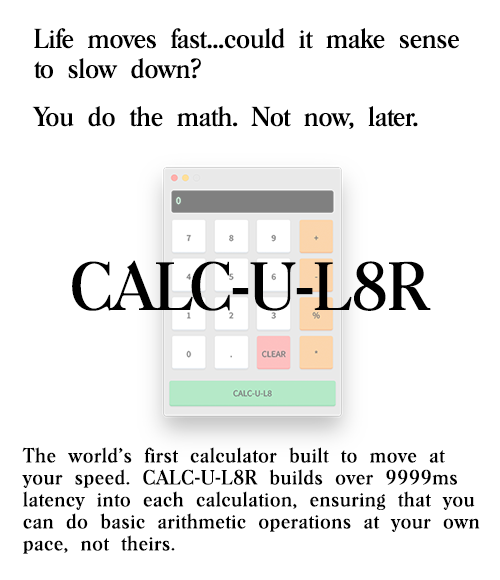
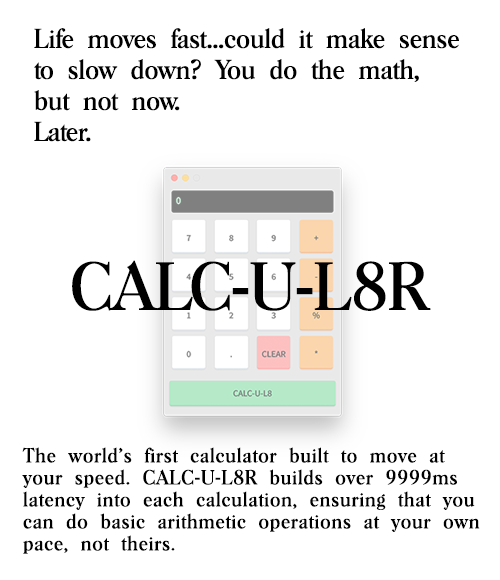
stuff

diff --git a/index.html b/index.html
@@ -41,7 +41,9 @@ fathom('trackPageview');
 		<h1 class="text-red-600">CALC-U-L8R</h1>
 
 
-		<h2>These days, life moves at 100 miles per hour...could it make sense to slow down?<br /><br />You do the math.</h2>
+		<h2>Life moves fast...could it make sense to slow down?
+<br /><br />
+You do the math, but not now. Later.</h2>
 
 		<p>Introducing <strong>CALC-U-L8R</strong>, the world's first calculator built to move at your speed. <strong>CALC-U-L8R</strong> builds over 9999ms latency into each calculation, ensuring that you can do basic arithmetic operations <em>at your own pace</em>.</p>
 
@@ -61,7 +63,7 @@ fathom('trackPageview');
 		<table style="width: 100%; border-collapse: collapse; ">
 			<tr>
 				<td>macOS</td>
-				<td><a href="CALC-U-L8R-0.0.1.dmg">Download</a></td>
+				<td><a href="CALC-U-L8R-0.0.1.dmg" onclick="fathom('trackGoal', 'IVOKYNE7', 0);">Download</a></td>
 			</tr>						
 		</table>
 		<h2>Installation instructions</h2>
